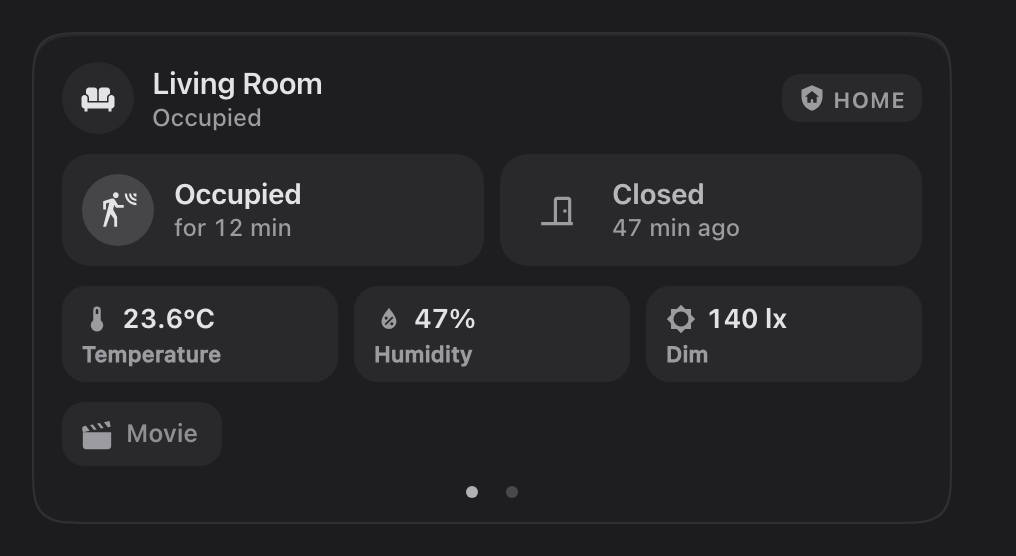
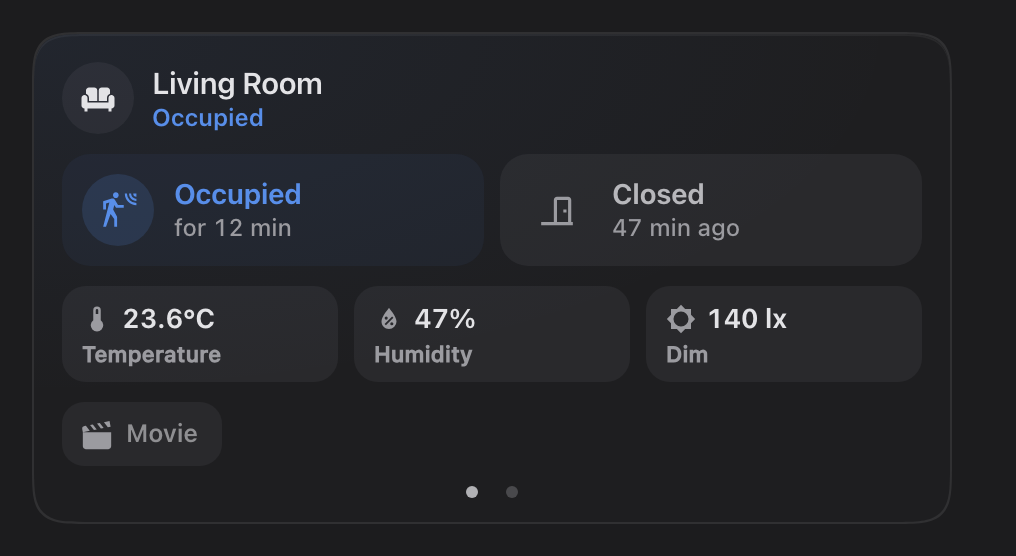
Room activity: the alarm is opt-in, and states carry their own colour (0.10.2)

Changed region(s): [[0.061, 0.3058, 0.3051, 0.4586], [0.1526, 0.1835, 0.2746, 0.2446], [0.7628, 0.1529, 0.8848, 0.214]]

diff --git a/dist/savvy-cards.js b/dist/savvy-cards.js
@@ -1,7 +1,7 @@
-/*! Savvy Cards v0.10.1 | MIT License | built from src/ by build.mjs, do not edit */
+/*! Savvy Cards v0.10.2 | MIT License | built from src/ by build.mjs, do not edit */
 (() => {
 "use strict";
-const SAVVY_VERSION = "0.10.1";
+const SAVVY_VERSION = "0.10.2";
 
 // ===== core/00-base.js =====
 // ---------------------------------------------------------------------------------------
@@ -13552,8 +13552,11 @@ registerCard("savvy-media-card", SavvyMediaCard, "Media",
 //   chips     your own (the one chip spec), and hand-picked entities placed by what they
 //             are: a toggle is a chip, a door a tile, a number a readout
 //
-// With an alarm (found by itself; `alarm: false` for none), an open door or window while
-// armed, or presence while armed away, turns amber: the only time they borrow a hue.
+// A state that is on has its own colour, alarm or not: presence the accent, an open door or window
+// and an unlocked lock amber, a tripped alert red (a leak blue); idle stays grey. `colored_states:
+// false` keeps everything grey. The alarm is opt-in: `alarm: alarm_control_panel.home` (or `alarm:
+// auto` for the house's first panel) adds the armed pill, and an open door or window while armed, or
+// presence while armed away, escalates to red.
 //
 // Swipe the card left for its history: a lane per presence / door / window sensor over
 // the room's temperature, for 6 h / 24 h / 3 d; scrubbing snaps onto the nearest change,
@@ -13562,6 +13565,7 @@ registerCard("savvy-media-card", SavvyMediaCard, "Media",
 //   type: custom:savvy-room-activity-card
 //   area: living_room            navigation_path: /lovelace/living-room
 //   layout: compact              one row: glyphs and the temperature
+//   alarm: alarm_control_panel.home | auto | (none)   colored_states: false
 
 const SNAP_TICK_MS = 30000;
 const SNAP_PREDICT_MS = 4000;
@@ -13600,8 +13604,10 @@ const chipAction = (a, entity) => (a === "press" || a === "turn_on"
   ? { action: "perform-action", perform_action: `${domainOf(entity)}.${a}`, target: { entity_id: entity } } : asAction(a));
 
 const STYLE = `${BASE_CSS}
-  ha-card { --warn-c: ${SNAP_COLORS.warn}; --alert-c: ${SNAP_COLORS.alert}; display: flex; flex-direction: column; gap: 10px; padding: var(--pad); overflow: hidden; }
+  ha-card { --warn-c: ${SNAP_COLORS.warn}; --alert-c: ${SNAP_COLORS.alert}; --esc: var(--alert-c); --acc-c: rgb(var(--accent)); display: flex; flex-direction: column; gap: 10px; padding: var(--pad); overflow: hidden; }
   :host([compact]) ha-card { --pad: 12px; gap: 0; }
+  /* colored_states: false: everything stays grey, and an alarm escalation is amber as it used to be */
+  ha-card[data-plain] { --esc: var(--warn-c); }
   /* the alert wash (steady) and glow (bloom), both springs, never transitions */
   .wash, .glow { position: absolute; inset: 0; pointer-events: none; z-index: -1; opacity: 0; border-radius: inherit; }
   .wash { background: radial-gradient(140% 110% at 0% 0%, color-mix(in oklab, var(--alert-hue, var(--alert-c)) 14%, transparent), transparent 68%); }
@@ -13616,6 +13622,7 @@ const STYLE = `${BASE_CSS}
   .title { font-size: 15px; line-height: 20px; font-weight: 600; letter-spacing: -0.015em; overflow-wrap: anywhere; }
   .status { font-size: 12px; line-height: 16px; font-weight: 500; letter-spacing: -0.003em; color: var(--secondary-text-color); white-space: nowrap; overflow: hidden; text-overflow: ellipsis; }
   .status[data-level="warn"] { color: var(--warn-c); font-weight: 600; }
+  .status[data-level="info"] { color: var(--acc-c); font-weight: 600; }
   .status[data-level="alert"] { color: var(--alert-hue, var(--alert-c)); font-weight: 600; }
   .armed { flex: none; display: flex; align-items: center; gap: 4px; height: 24px; padding: 0 8px; border-radius: 9px; background: var(--well); color: var(--secondary-text-color);
     font-size: 11px; line-height: 13px; font-weight: 650; letter-spacing: 0.05em; text-transform: uppercase; --mdc-icon-size: 14px; }
@@ -13627,7 +13634,8 @@ const STYLE = `${BASE_CSS}
   .banner .b2 { font-size: 12px; line-height: 16px; font-weight: 500; letter-spacing: -0.003em; opacity: 0.85; }
 
   .events { display: grid; grid-template-columns: repeat(auto-fit, minmax(124px, 1fr)); gap: 8px; }
-  .ev { --on: 0; --warn: 0; --hue: color-mix(in oklab, var(--warn-c) calc(var(--warn) * 100%), var(--primary-text-color));
+  .ev { --on: 0; --warn: 0; --tone-c: var(--primary-text-color);
+    --hue: color-mix(in oklab, var(--esc) calc(var(--warn) * 100%), color-mix(in oklab, var(--tone-c) calc(var(--on) * 100%), var(--primary-text-color)));
     position: relative; box-sizing: border-box; min-width: 0; display: grid; grid-template-columns: auto 1fr; grid-template-rows: auto auto; column-gap: 10px; align-items: center;
     padding: 10px 12px 10px 10px; border-radius: 14px; background: color-mix(in oklab, var(--hue) calc(6% + var(--warn) * 8%), transparent); cursor: pointer; transform-origin: 50% 50%; }
   .ev .disc { grid-row: span 2; width: var(--b-m); height: var(--b-m); border-radius: 50%; display: grid; place-items: center; --mdc-icon-size: 19px;
@@ -13662,7 +13670,8 @@ const STYLE = `${BASE_CSS}
   .empty { font-size: 12px; line-height: 16px; font-weight: 500; color: var(--secondary-text-color); padding: 6px 2px; }
 
   .glyphs { display: flex; align-items: center; gap: 4px; flex: none; }
-  .gl { --on: 0; --warn: 0; --hue: color-mix(in oklab, var(--warn-c) calc(var(--warn) * 100%), var(--primary-text-color));
+  .gl { --on: 0; --warn: 0; --tone-c: var(--primary-text-color);
+    --hue: color-mix(in oklab, var(--esc) calc(var(--warn) * 100%), color-mix(in oklab, var(--tone-c) calc(var(--on) * 100%), var(--primary-text-color)));
     width: 30px; height: 30px; border-radius: 10px; display: grid; place-items: center; --mdc-icon-size: 17px; cursor: pointer; transform-origin: 50% 50%;
     background: color-mix(in oklab, var(--hue) calc(var(--on) * 14%), transparent); color: color-mix(in oklab, var(--hue) calc(var(--on) * 100%), var(--secondary-text-color)); }
   .gl[data-alert] { --hue: var(--alert-hue, var(--alert-c)); --on: 1; }
@@ -13951,12 +13960,21 @@ class SavvyRoomActivityCard extends SavvyCard {
     return c.name || (c.area ? areaInfo(this._hass, c.area).name : "Home");
   }
 
-  // The alarm: the one config names, else the house's (false: none).
+  // The alarm is opt-in: the panel the config names, or `auto` for the house's first one. Without it there is no
+  // armed pill and nothing escalates.
   _alarmState() {
     const a = this._config.alarm;
-    if (a === false) return null;
-    const id = typeof a === "string" ? a : Object.keys(this._hass.states).find((x) => x.startsWith("alarm_control_panel."));
-    return id ? this._hass.states[id]?.state : null;
+    if (typeof a !== "string" || !a) return null;
+    const id = a === "auto" ? Object.keys(this._hass.states).find((x) => x.startsWith("alarm_control_panel.")) : a;
+    return id ? this._hass.states[id]?.state ?? null : null;
+  }
+
+  // The hue a state carries on its own (colored_states): presence the accent, a door, window or open lock amber.
+  _toneOf(slot) {
+    if (this._config.colored_states === false) return null;
+    if (slot.key === "presence") return "var(--acc-c)";
+    if (slot.key === "door" || slot.key === "window" || slot.key === "lock") return "var(--warn-c)";
+    return null;
   }
 
   // A door or window escalates whenever armed; presence only when armed away (people
@@ -13984,6 +14002,7 @@ class SavvyRoomActivityCard extends SavvyCard {
     text(el.title, this._areaName());
     attr(el.roomIcon, "icon", c.icon || (c.area && areaInfo(h, c.area).icon) || (c.area ? "mdi:home-outline" : "mdi:home"));
     const alarm = this._alarmState();
+    attr(el.card, "data-plain", c.colored_states === false);
     const seen = new Set();
     const summary = { active: [], warn: false, alerts: [], offline: 0, count: 0, watch: 0 };
     const tally = (slot, item, st) => {
@@ -14128,6 +14147,7 @@ class SavvyRoomActivityCard extends SavvyCard {
     node.__label = label;
     text(node.__el.lbl, label);
     node.__el.lbl.hidden = !(item.name || siblings > 1);
+    put(node, "--tone-c", this._toneOf(slot) || "var(--primary-text-color)");
     this._nodeSpring(node, "__onS", on ? 1 : 0, MOTION.ui).to(on ? 1 : 0, MOTION.ui);
     this._nodeSpring(node, "__warn", 0, MOTION.ui).to(this._escalates(slot, on, alarm) ? 1 : 0, MOTION.ui);
     this._timeText(node);
@@ -14150,6 +14170,7 @@ class SavvyRoomActivityCard extends SavvyCard {
     attr(node, "data-off", !st || isOff(st));
     attr(node, "data-alert", slot.kind === "alert");
     if (slot.color) put(node, "--alert-hue", slot.color);
+    put(node, "--tone-c", this._toneOf(slot) || "var(--primary-text-color)");
     attr(node.__el.icon, "icon", this._iconFor(slot, item, on));
     this._nodeSpring(node, "__onS", on ? 1 : 0, MOTION.ui).to(on ? 1 : 0, MOTION.ui);
     this._nodeSpring(node, "__warn", 0, MOTION.ui).to(this._escalates(slot, on, alarm) ? 1 : 0, MOTION.ui);
@@ -14310,7 +14331,17 @@ class SavvyRoomActivityCard extends SavvyCard {
       attr(el.banner, "aria-label", `${first.slot.label} detected. Open details.`);
     } else { this._bannerEntity = null; this._bannerNode = null; }
     const alerting = !!first;
-    this._alert.to(alerting ? 1 : 0, MOTION.ui);
+    // the strongest state sets the card's soft wash and its status colour: a tripped alert, an escalation (red),
+    // anything open or unlocked (amber), presence (the accent); with colored_states off only an alert washes
+    const colored = this._config.colored_states !== false;
+    const openNow = sum.active.some((k) => k === "door" || k === "window" || k === "lock");
+    let tier = alerting ? "alert" : null, wash = alerting ? 1 : 0;
+    if (!alerting && colored) {
+      if (sum.warn) { tier = "esc"; wash = 0.85; put(el.card, "--alert-hue", "var(--alert-c)"); }
+      else if (openNow) { tier = "open"; wash = 0.6; put(el.card, "--alert-hue", "var(--warn-c)"); }
+      else if (sum.active.includes("presence")) { tier = "presence"; wash = 0.5; put(el.card, "--alert-hue", "var(--acc-c)"); }
+    }
+    this._alert.to(wash, MOTION.ui);
     if (alerting && !this._wasAlert) bloom(this._glow, 1, MOTION.bloom);
     this._wasAlert = alerting;
     let level = null, words;
@@ -14327,7 +14358,7 @@ class SavvyRoomActivityCard extends SavvyCard {
         if (n === 1) parts.push(`${SLOT[k].label} open`);
         else if (n > 1) parts.push(`${n} ${k}s open`);
       }
-      if (sum.warn) level = "warn";
+      level = tier === "esc" ? "alert" : tier === "open" ? "warn" : tier === "presence" ? "info" : sum.warn ? "warn" : null;
       words = parts.length ? parts.join(" · ") : (sum.watch ? "All quiet" : "");
     }
     if (sum.offline) words = words ? `${words} · ${sum.offline} offline` : `${sum.offline} offline`;
@@ -14918,7 +14949,8 @@ const EDITOR = defineEditor("savvy-room-activity-card", (hass, c) => [
   S.area("area", "Area"),
   S.grid(S.text("name", "Name"), S.icon("icon", "Icon")),
   S.grid(S.select("layout", "Layout", [{ value: "full", label: "Full" }, { value: "compact", label: "Compact (one row)" }]),
-    { name: "alarm", label: "Alarm", helper: "Found by itself. Doors and windows turn amber while it's armed.", selector: { entity: { domain: "alarm_control_panel" } } }),
+    { name: "alarm", label: "Alarm", helper: "Empty: none. Adds the armed pill, and an open door turns red while it's armed. Write auto in YAML for the house's first alarm.", selector: { entity: { domain: "alarm_control_panel" } } }),
+  S.bool("colored_states", "Coloured states", "Presence in the accent colour, open doors, windows and unlocked locks amber, alerts red. Off keeps everything grey.", true),
   S.nav("navigation_path", "Target page", "Where tapping the name goes."),
   { name: "exclude_kinds", label: "Hide kinds", selector: { select: { multiple: true, options: SLOTS.map((s) => ({ value: s.key, label: s.label })) } } },
   { name: "exclude", label: "Exclude", selector: { entity: { multiple: true } } },

diff --git a/src/cards/room-activity.js b/src/cards/room-activity.js
@@ -9,8 +9,11 @@
 //   chips     your own (the one chip spec), and hand-picked entities placed by what they
 //             are: a toggle is a chip, a door a tile, a number a readout
 //
-// With an alarm (found by itself; `alarm: false` for none), an open door or window while
-// armed, or presence while armed away, turns amber: the only time they borrow a hue.
+// A state that is on has its own colour, alarm or not: presence the accent, an open door or window
+// and an unlocked lock amber, a tripped alert red (a leak blue); idle stays grey. `colored_states:
+// false` keeps everything grey. The alarm is opt-in: `alarm: alarm_control_panel.home` (or `alarm:
+// auto` for the house's first panel) adds the armed pill, and an open door or window while armed, or
+// presence while armed away, escalates to red.
 //
 // Swipe the card left for its history: a lane per presence / door / window sensor over
 // the room's temperature, for 6 h / 24 h / 3 d; scrubbing snaps onto the nearest change,
@@ -19,6 +22,7 @@
 //   type: custom:savvy-room-activity-card
 //   area: living_room            navigation_path: /lovelace/living-room
 //   layout: compact              one row: glyphs and the temperature
+//   alarm: alarm_control_panel.home | auto | (none)   colored_states: false
 
 const SNAP_TICK_MS = 30000;
 const SNAP_PREDICT_MS = 4000;
@@ -57,8 +61,10 @@ const chipAction = (a, entity) => (a === "press" || a === "turn_on"
   ? { action: "perform-action", perform_action: `${domainOf(entity)}.${a}`, target: { entity_id: entity } } : asAction(a));
 
 const STYLE = `${BASE_CSS}
-  ha-card { --warn-c: ${SNAP_COLORS.warn}; --alert-c: ${SNAP_COLORS.alert}; display: flex; flex-direction: column; gap: 10px; padding: var(--pad); overflow: hidden; }
+  ha-card { --warn-c: ${SNAP_COLORS.warn}; --alert-c: ${SNAP_COLORS.alert}; --esc: var(--alert-c); --acc-c: rgb(var(--accent)); display: flex; flex-direction: column; gap: 10px; padding: var(--pad); overflow: hidden; }
   :host([compact]) ha-card { --pad: 12px; gap: 0; }
+  /* colored_states: false: everything stays grey, and an alarm escalation is amber as it used to be */
+  ha-card[data-plain] { --esc: var(--warn-c); }
   /* the alert wash (steady) and glow (bloom), both springs, never transitions */
   .wash, .glow { position: absolute; inset: 0; pointer-events: none; z-index: -1; opacity: 0; border-radius: inherit; }
   .wash { background: radial-gradient(140% 110% at 0% 0%, color-mix(in oklab, var(--alert-hue, var(--alert-c)) 14%, transparent), transparent 68%); }
@@ -73,6 +79,7 @@ const STYLE = `${BASE_CSS}
   .title { font-size: 15px; line-height: 20px; font-weight: 600; letter-spacing: -0.015em; overflow-wrap: anywhere; }
   .status { font-size: 12px; line-height: 16px; font-weight: 500; letter-spacing: -0.003em; color: var(--secondary-text-color); white-space: nowrap; overflow: hidden; text-overflow: ellipsis; }
   .status[data-level="warn"] { color: var(--warn-c); font-weight: 600; }
+  .status[data-level="info"] { color: var(--acc-c); font-weight: 600; }
   .status[data-level="alert"] { color: var(--alert-hue, var(--alert-c)); font-weight: 600; }
   .armed { flex: none; display: flex; align-items: center; gap: 4px; height: 24px; padding: 0 8px; border-radius: 9px; background: var(--well); color: var(--secondary-text-color);
     font-size: 11px; line-height: 13px; font-weight: 650; letter-spacing: 0.05em; text-transform: uppercase; --mdc-icon-size: 14px; }
@@ -84,7 +91,8 @@ const STYLE = `${BASE_CSS}
   .banner .b2 { font-size: 12px; line-height: 16px; font-weight: 500; letter-spacing: -0.003em; opacity: 0.85; }
 
   .events { display: grid; grid-template-columns: repeat(auto-fit, minmax(124px, 1fr)); gap: 8px; }
-  .ev { --on: 0; --warn: 0; --hue: color-mix(in oklab, var(--warn-c) calc(var(--warn) * 100%), var(--primary-text-color));
+  .ev { --on: 0; --warn: 0; --tone-c: var(--primary-text-color);
+    --hue: color-mix(in oklab, var(--esc) calc(var(--warn) * 100%), color-mix(in oklab, var(--tone-c) calc(var(--on) * 100%), var(--primary-text-color)));
     position: relative; box-sizing: border-box; min-width: 0; display: grid; grid-template-columns: auto 1fr; grid-template-rows: auto auto; column-gap: 10px; align-items: center;
     padding: 10px 12px 10px 10px; border-radius: 14px; background: color-mix(in oklab, var(--hue) calc(6% + var(--warn) * 8%), transparent); cursor: pointer; transform-origin: 50% 50%; }
   .ev .disc { grid-row: span 2; width: var(--b-m); height: var(--b-m); border-radius: 50%; display: grid; place-items: center; --mdc-icon-size: 19px;
@@ -119,7 +127,8 @@ const STYLE = `${BASE_CSS}
   .empty { font-size: 12px; line-height: 16px; font-weight: 500; color: var(--secondary-text-color); padding: 6px 2px; }
 
   .glyphs { display: flex; align-items: center; gap: 4px; flex: none; }
-  .gl { --on: 0; --warn: 0; --hue: color-mix(in oklab, var(--warn-c) calc(var(--warn) * 100%), var(--primary-text-color));
+  .gl { --on: 0; --warn: 0; --tone-c: var(--primary-text-color);
+    --hue: color-mix(in oklab, var(--esc) calc(var(--warn) * 100%), color-mix(in oklab, var(--tone-c) calc(var(--on) * 100%), var(--primary-text-color)));
     width: 30px; height: 30px; border-radius: 10px; display: grid; place-items: center; --mdc-icon-size: 17px; cursor: pointer; transform-origin: 50% 50%;
     background: color-mix(in oklab, var(--hue) calc(var(--on) * 14%), transparent); color: color-mix(in oklab, var(--hue) calc(var(--on) * 100%), var(--secondary-text-color)); }
   .gl[data-alert] { --hue: var(--alert-hue, var(--alert-c)); --on: 1; }
@@ -408,12 +417,21 @@ class SavvyRoomActivityCard extends SavvyCard {
     return c.name || (c.area ? areaInfo(this._hass, c.area).name : "Home");
   }
 
-  // The alarm: the one config names, else the house's (false: none).
+  // The alarm is opt-in: the panel the config names, or `auto` for the house's first one. Without it there is no
+  // armed pill and nothing escalates.
   _alarmState() {
     const a = this._config.alarm;
-    if (a === false) return null;
-    const id = typeof a === "string" ? a : Object.keys(this._hass.states).find((x) => x.startsWith("alarm_control_panel."));
-    return id ? this._hass.states[id]?.state : null;
+    if (typeof a !== "string" || !a) return null;
+    const id = a === "auto" ? Object.keys(this._hass.states).find((x) => x.startsWith("alarm_control_panel.")) : a;
+    return id ? this._hass.states[id]?.state ?? null : null;
+  }
+
+  // The hue a state carries on its own (colored_states): presence the accent, a door, window or open lock amber.
+  _toneOf(slot) {
+    if (this._config.colored_states === false) return null;
+    if (slot.key === "presence") return "var(--acc-c)";
+    if (slot.key === "door" || slot.key === "window" || slot.key === "lock") return "var(--warn-c)";
+    return null;
   }
 
   // A door or window escalates whenever armed; presence only when armed away (people
@@ -441,6 +459,7 @@ class SavvyRoomActivityCard extends SavvyCard {
     text(el.title, this._areaName());
     attr(el.roomIcon, "icon", c.icon || (c.area && areaInfo(h, c.area).icon) || (c.area ? "mdi:home-outline" : "mdi:home"));
     const alarm = this._alarmState();
+    attr(el.card, "data-plain", c.colored_states === false);
     const seen = new Set();
     const summary = { active: [], warn: false, alerts: [], offline: 0, count: 0, watch: 0 };
     const tally = (slot, item, st) => {
@@ -585,6 +604,7 @@ class SavvyRoomActivityCard extends SavvyCard {
     node.__label = label;
     text(node.__el.lbl, label);
     node.__el.lbl.hidden = !(item.name || siblings > 1);
+    put(node, "--tone-c", this._toneOf(slot) || "var(--primary-text-color)");
     this._nodeSpring(node, "__onS", on ? 1 : 0, MOTION.ui).to(on ? 1 : 0, MOTION.ui);
     this._nodeSpring(node, "__warn", 0, MOTION.ui).to(this._escalates(slot, on, alarm) ? 1 : 0, MOTION.ui);
     this._timeText(node);
@@ -607,6 +627,7 @@ class SavvyRoomActivityCard extends SavvyCard {
     attr(node, "data-off", !st || isOff(st));
     attr(node, "data-alert", slot.kind === "alert");
     if (slot.color) put(node, "--alert-hue", slot.color);
+    put(node, "--tone-c", this._toneOf(slot) || "var(--primary-text-color)");
     attr(node.__el.icon, "icon", this._iconFor(slot, item, on));
     this._nodeSpring(node, "__onS", on ? 1 : 0, MOTION.ui).to(on ? 1 : 0, MOTION.ui);
     this._nodeSpring(node, "__warn", 0, MOTION.ui).to(this._escalates(slot, on, alarm) ? 1 : 0, MOTION.ui);
@@ -767,7 +788,17 @@ class SavvyRoomActivityCard extends SavvyCard {
       attr(el.banner, "aria-label", `${first.slot.label} detected. Open details.`);
     } else { this._bannerEntity = null; this._bannerNode = null; }
     const alerting = !!first;
-    this._alert.to(alerting ? 1 : 0, MOTION.ui);
+    // the strongest state sets the card's soft wash and its status colour: a tripped alert, an escalation (red),
+    // anything open or unlocked (amber), presence (the accent); with colored_states off only an alert washes
+    const colored = this._config.colored_states !== false;
+    const openNow = sum.active.some((k) => k === "door" || k === "window" || k === "lock");
+    let tier = alerting ? "alert" : null, wash = alerting ? 1 : 0;
+    if (!alerting && colored) {
+      if (sum.warn) { tier = "esc"; wash = 0.85; put(el.card, "--alert-hue", "var(--alert-c)"); }
+      else if (openNow) { tier = "open"; wash = 0.6; put(el.card, "--alert-hue", "var(--warn-c)"); }
+      else if (sum.active.includes("presence")) { tier = "presence"; wash = 0.5; put(el.card, "--alert-hue", "var(--acc-c)"); }
+    }
+    this._alert.to(wash, MOTION.ui);
     if (alerting && !this._wasAlert) bloom(this._glow, 1, MOTION.bloom);
     this._wasAlert = alerting;
     let level = null, words;
@@ -784,7 +815,7 @@ class SavvyRoomActivityCard extends SavvyCard {
         if (n === 1) parts.push(`${SLOT[k].label} open`);
         else if (n > 1) parts.push(`${n} ${k}s open`);
       }
-      if (sum.warn) level = "warn";
+      level = tier === "esc" ? "alert" : tier === "open" ? "warn" : tier === "presence" ? "info" : sum.warn ? "warn" : null;
       words = parts.length ? parts.join(" · ") : (sum.watch ? "All quiet" : "");
     }
     if (sum.offline) words = words ? `${words} · ${sum.offline} offline` : `${sum.offline} offline`;
@@ -1375,7 +1406,8 @@ const EDITOR = defineEditor("savvy-room-activity-card", (hass, c) => [
   S.area("area", "Area"),
   S.grid(S.text("name", "Name"), S.icon("icon", "Icon")),
   S.grid(S.select("layout", "Layout", [{ value: "full", label: "Full" }, { value: "compact", label: "Compact (one row)" }]),
-    { name: "alarm", label: "Alarm", helper: "Found by itself. Doors and windows turn amber while it's armed.", selector: { entity: { domain: "alarm_control_panel" } } }),
+    { name: "alarm", label: "Alarm", helper: "Empty: none. Adds the armed pill, and an open door turns red while it's armed. Write auto in YAML for the house's first alarm.", selector: { entity: { domain: "alarm_control_panel" } } }),
+  S.bool("colored_states", "Coloured states", "Presence in the accent colour, open doors, windows and unlocked locks amber, alerts red. Off keeps everything grey.", true),
   S.nav("navigation_path", "Target page", "Where tapping the name goes."),
   { name: "exclude_kinds", label: "Hide kinds", selector: { select: { multiple: true, options: SLOTS.map((s) => ({ value: s.key, label: s.label })) } } },
   { name: "exclude", label: "Exclude", selector: { entity: { multiple: true } } },

diff --git a/README.md b/README.md
@@ -411,8 +411,9 @@ aggregate: true
 <picture><source media="(prefers-color-scheme: light)" srcset="docs/images/room-activity-light.png"><img src="docs/images/room-activity-dark.png" width="460" alt="Savvy room activity card"></picture>
 
 What is happening in a room and when it last changed: presence ("for 12 min"), doors, windows, locks,
-readings, and smoke, gas and leak sensors that stay quiet until one trips. While the alarm is armed an
-open door or an unlocked lock turns amber. Swipe left for the room's history.
+readings, and smoke, gas and leak sensors that stay quiet until one trips. A state that is on shows its own
+colour: presence in the accent, an open door, window or unlocked lock in amber, an alert in red; idle stays
+grey. Name an alarm and an open door while it is armed turns red. Swipe left for the room's history.
 
 <picture><source media="(prefers-color-scheme: light)" srcset="docs/images/room-activity-compact-light.png"><img src="docs/images/room-activity-compact-dark.png" width="400" alt="Room activity, compact"></picture>
 
@@ -426,7 +427,8 @@ open door or an unlocked lock turns amber. Swipe left for the room's history.
 | `include` | list of entities | none | Entities with no area, shown with this room (a lock, a door contact). |
 | `exclude_kinds` | list of kinds | none | Kinds to hide (any of the keys above). |
 | `exclude` | list of entities | none | Entities never shown. |
-| `alarm` | entity or `false` | the house's panel | The alarm panel. |
+| `alarm` | entity or `auto` | none | The alarm panel. Adds the armed pill, and an open door or window while armed (presence while armed away) turns red. `auto` uses the house's first panel. |
+| `colored_states` | boolean | `true` | Presence in the accent, open doors, windows and unlocked locks amber, alerts red. `false` keeps everything grey. |
 | `aggregate` | `true` or list | off | See [Aggregate sensors](#aggregate-sensors). |
 | `history` | object or `false` | `{ hours: 24, ranges: [6, 24, 72], show_state: true }` | The history page. |
 | `lux_labels` | object or `false` | `{ dark: 10, dim: 150 }` | Light reads as Dark, Dim or Bright; `false` shows the number. |
@@ -454,7 +456,8 @@ door: binary_sensor.patio_door
 include: [lock.front_door]                 # a lock with no area
 exclude_kinds: [humidity]
 exclude: [binary_sensor.hallway_motion]
-alarm: alarm_control_panel.home
+alarm: alarm_control_panel.home            # or auto; leave out for none
+colored_states: true
 aggregate: true
 history: { hours: 24, ranges: [6, 24, 72] }
 lux_labels: { dark: 10, dim: 150 }

diff --git a/docs/DESIGN.md b/docs/DESIGN.md
@@ -267,9 +267,10 @@ state colour when on (`--mix-on`), 18% of amber or red when it is an alert
 - Derive surfaces from the text colour so they work on any theme:
   `color-mix(in oklab, var(--primary-text-color) 6%, transparent)` for a
   "well", 9% for a hairline border.
-- **Colour is reserved for energy and alerts.** Presence, doors, covers, and
-  windows light up in the text colour. Lights, climate, media, leak, and
-  alarm get a hue.
+- **Colour is reserved for energy and alerts.** Doors, covers and windows light up
+  in the text colour. Lights, climate, media, leak, and alarm get a hue. The room
+  activity card is the one exception: its states carry their own colour (presence
+  the accent, open or unlocked amber, alerts red) unless `colored_states: false`.
 - **Amber and red are one pair everywhere:** `--warn-rgb`, `--bad-rgb` (and `--good-rgb`),
   with `TONE` for the places that need a hex string. No card spells its own.
 - **The state glow.** A soft radial wash in the top corner of the card, in the colour of

diff --git a/CHANGELOG.md b/CHANGELOG.md
@@ -1,5 +1,18 @@
 # Changelog
 
+## 0.10.2
+
+The room activity card: no alarm unless you ask, and its states in colour.
+
+- **The alarm is opt-in.** The card no longer finds an alarm panel by itself. Name one with `alarm:
+  alarm_control_panel.home`, or write `alarm: auto` for the house's first panel; then the armed pill shows and
+  an open door or window while it is armed (presence while armed away) turns red. Without it there is no pill
+  and nothing escalates. If you relied on the old behaviour, add `alarm: auto`.
+- **States have their own colour, alarm or not.** Presence is the accent, an open door or window and an
+  unlocked lock are amber, an alert is red (a leak blue); closed, locked and clear stay grey. The status line
+  and the card's soft corner wash follow the strongest state. `colored_states: false` (editor toggle "Coloured
+  states") keeps it all grey.
+
 ## 0.10.1
 
 A dismiss button on the health card, and admin-only visibility.
